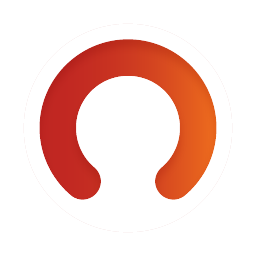
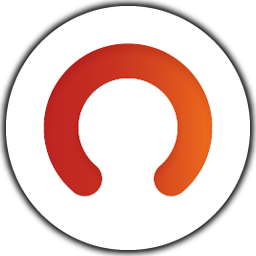
feat: Interface re-styling by @danielderbenev.

diff --git a/src/components/TopBar.tsx b/src/components/TopBar.tsx
@@ -13,8 +13,8 @@ function TopBar() {
     <header>
       <div
         style={{
-          width: "128px",
-          height: "128px",
+          width: "96px",
+          height: "96px",
           display: "inline-block",
         }}
       >
@@ -36,27 +36,27 @@ function TopBar() {
         className="uk-margin-left"
         value={discordText}
         onClick={openExternal("https://discord.gg/EahayUv")}
-        background="#7289da"
+        background="#888888"
       />
       <LightModeContext.Consumer>
         {mode => (
           <Badge
             className="uk-margin-left"
-            value={mode.mode === "dark" ? "☀" : "🌙"}
+            value={mode.mode === "dark" ? "🌙 Dark" : "☀ Light"}
             onClick={mode.switch}
-            background={mode.mode === "dark" ? "#FFF" : "#000"}
+            background={mode.mode === "dark" ? "#888888" : "#888888"}
           />
         )}
       </LightModeContext.Consumer>
       <Badge
         className="uk-margin-left"
-        value="🌐"
+        value="🌐 Language"
         onClick={() => {
           require("uikit")
             .modal(document.getElementById("locale-selector-modal"))
             .show();
         }}
-        background="rgba(0, 0, 0, 0)"
+        background="#888888"
       />
     </header>
   );

diff --git a/src/index.scss b/src/index.scss
@@ -10,8 +10,40 @@ html {
     cursor: pointer;
   }
 
+  .uk-h1,
+  .uk-h2,
+  .uk-h3,
+  .uk-h4,
+  .uk-h5,
+  .uk-h6,
+  .uk-heading-2xlarge,
+  .uk-heading-large,
+  .uk-heading-medium,
+  .uk-heading-small,
+  .uk-heading-xlarge,
+  .uk-tab,
+  .uk-card-title,
+  .uk-badge,
+  .uk-button, h1, h2, h3, h4, h5, h6, html {
+    font-family: Arial, Helvetica, sans-serif;
+  }
+
+  .uk-h2 {
+    font-size: 23px;
+    line-height: 0.3;
+  }
+
+  .uk-card-title {
+    font-weight: 600;
+  }
+
+  .uk-badge {
+    height: 28px;
+    border-radius: 5px;
+  }
+
   .uk-modal {
-    background-color: rgba(50, 50, 50, 0.6);
+    background-color: rgba(0, 0, 0, 0.75);
 
     .uk-modal-dialog {
       background-color: #1e87f0;

diff --git a/public/index.html b/public/index.html
@@ -24,15 +24,5 @@
   <body style="min-height:100vh;">
     <noscript>You need to enable JavaScript to run this app.</noscript>
     <div id="root"></div>
-    <!--
-      This HTML file is a template.
-      If you open it directly in the browser, you will see an empty page.
-
-      You can add webfonts, meta tags, or analytics to this file.
-      The build step will place the bundled scripts into the <body> tag.
-
-      To begin the development, run `npm start` or `yarn start`.
-      To create a production bundle, use `npm run build` or `yarn build`.
-    -->
   </body>
 </html>

diff --git a/src/components/SysInfoCards.tsx b/src/components/SysInfoCards.tsx
@@ -34,7 +34,7 @@ function SysInfoCards() {
         const gpu = sysInfoContext.graphics;
         const bios = sysInfoContext.bios;
         return (
-          <div className="uk-margin-small-right uk-margin-small-left uk-flex uk-flex-center uk-flex-around uk-flex-wrap">
+          <div className="uk-margin-small-right uk-margin-small-left uk-flex uk-flex-left uk-flex-wrap">
             <Card title={basicInfoTitleText}>
               {system === false || mem === false || bios === false ? (
                 <div uk-spinner=""></div>
